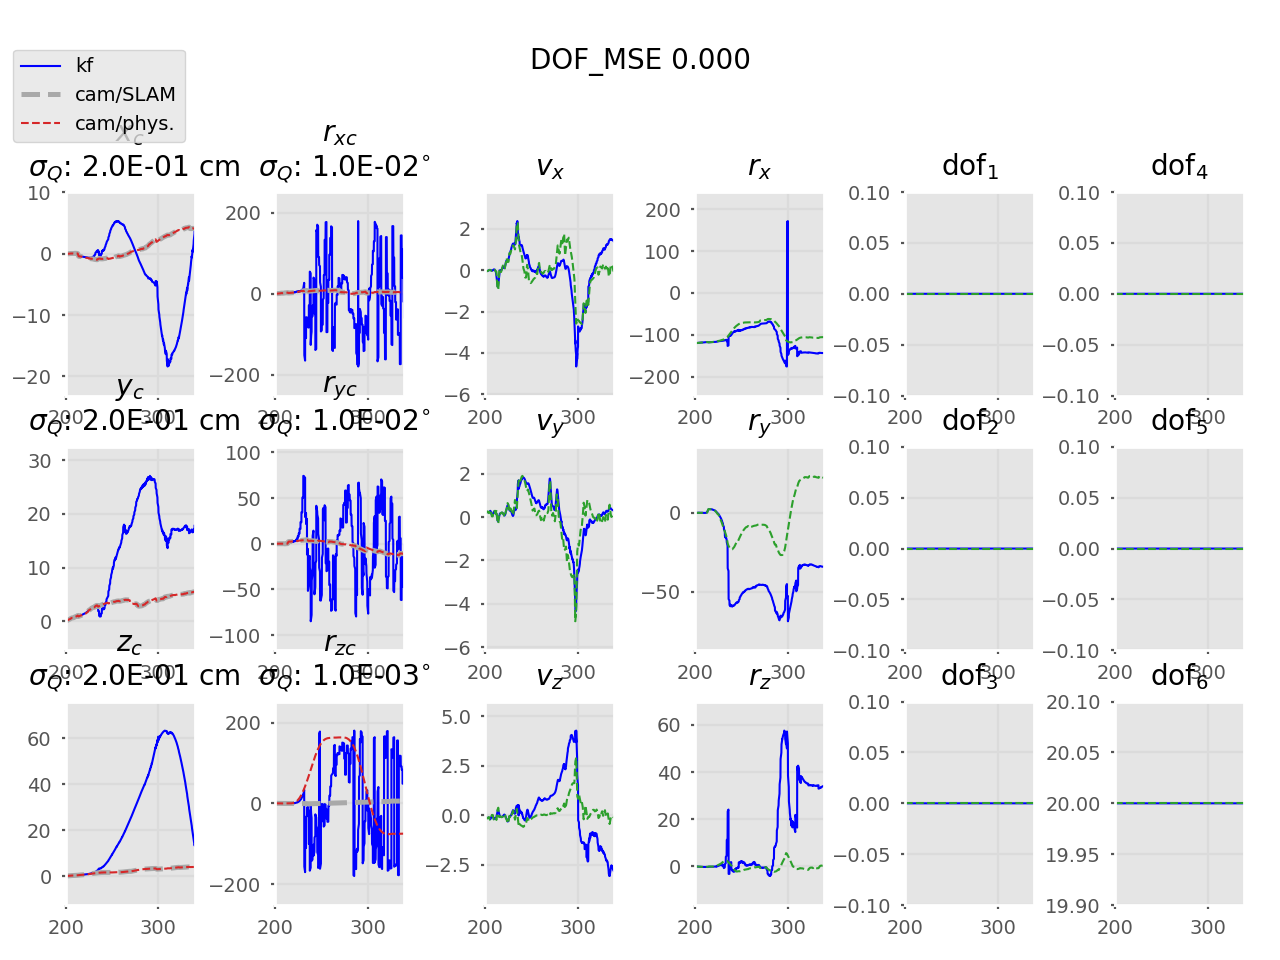
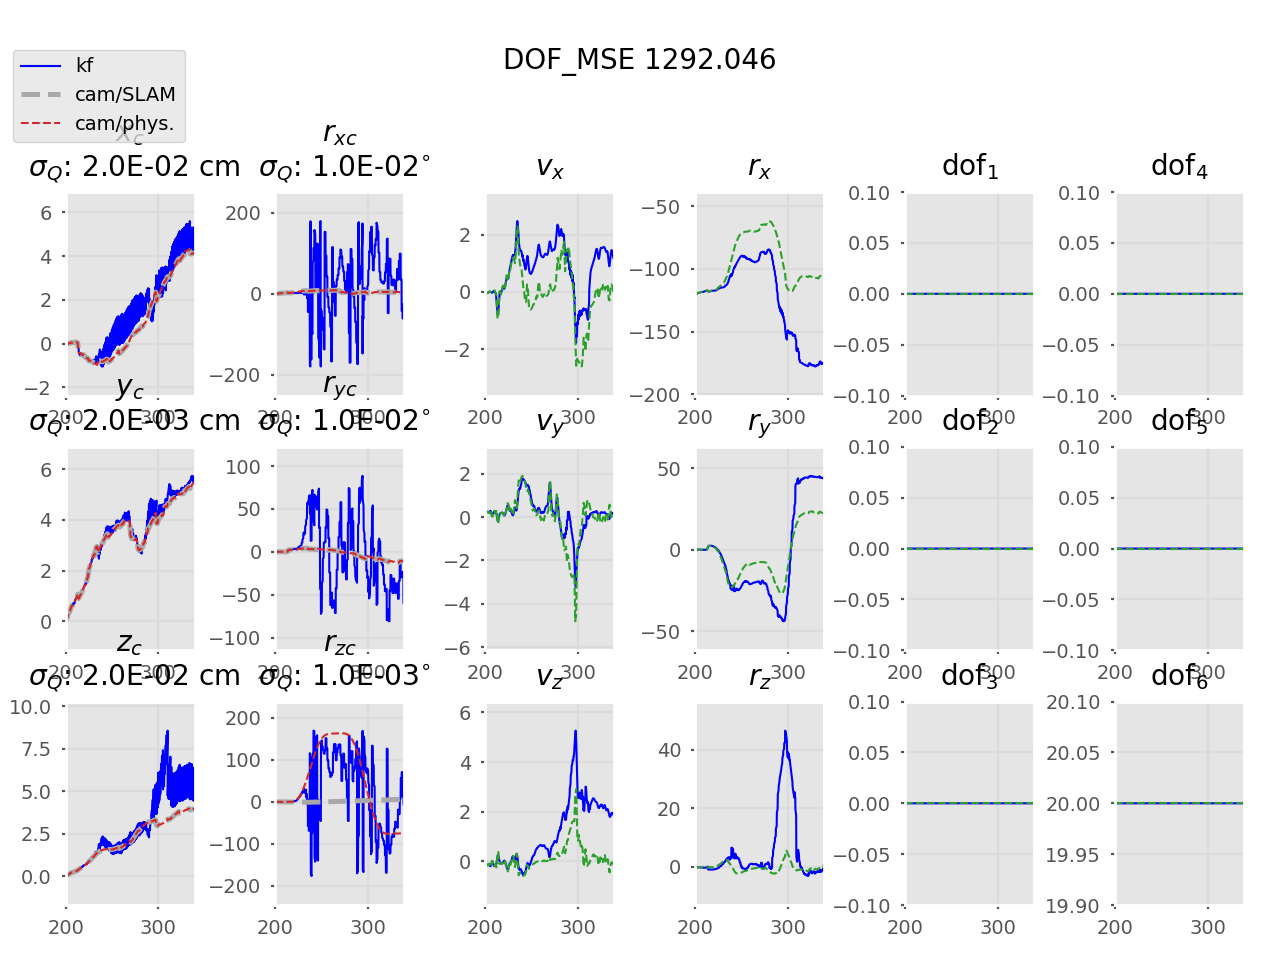
tuning

diff --git a/configuration.py b/configuration.py
@@ -29,9 +29,9 @@ probe = SimpleProbe(scope_length=scope_length,
 
 # Camera parameters / R
 """ Noise """
-STDEV_PC            = [0.2, 0.2, 0.2]                   # [cm]
+STDEV_PC            = [0.02, 0.002, 0.02]                   # [cm]
 STDEV_Q_DEG         = [0.01, 0.01, 0.001]               # [deg]
-STDEV_NOTCH_deg     = 0.1                               # [deg]
+STDEV_NOTCH_deg     = 0.01                               # [deg]
 
 STDEV_RC        = np.deg2rad(STDEV_Q_DEG)               # [rad]
 STDEV_NOTCH     = np.deg2rad(STDEV_NOTCH_deg)           # [rad]
@@ -56,7 +56,7 @@ stdev_acc = [ACCEL_NOISE] * 3                           # [cm/s^2]
     (later on in Config.__init__: gets divided by num_interframe_vals
         if not given as an argument to main.py) """
 STDEV_DOFS_P            = [0.25, 0.25, 0.25]            # [cm]
-STDEV_DOFS_R_deg        = [1, 1, 1]                     # [deg]
+STDEV_DOFS_R_deg        = [1, 1, 10]                     # [deg]
 STDEV_DOFS_NOTCHdd_deg  = 0.005                             # [deg/s^2]
 
 STDEV_DOFS_R        = np.deg2rad(STDEV_DOFS_R_deg)          # [rad]

diff --git a/readme.md b/readme.md
@@ -5,11 +5,11 @@ the calibration parameters in a camera-IMU sensor probe setup.
 [Program outline](https://www.evernote.com/l/AeQSiL2U6txCWbgNAi1G9mUtWune-gjHNlU/)
 
 ## Notch
-Propagation only  
-![](img/notchest_prop_only.png)
-
 Tuning in progress
 ![](img/tuning.png)
+
+Propagation only  
+![](img/notchest_prop_only.png)
 
 ## Usage
 ```
